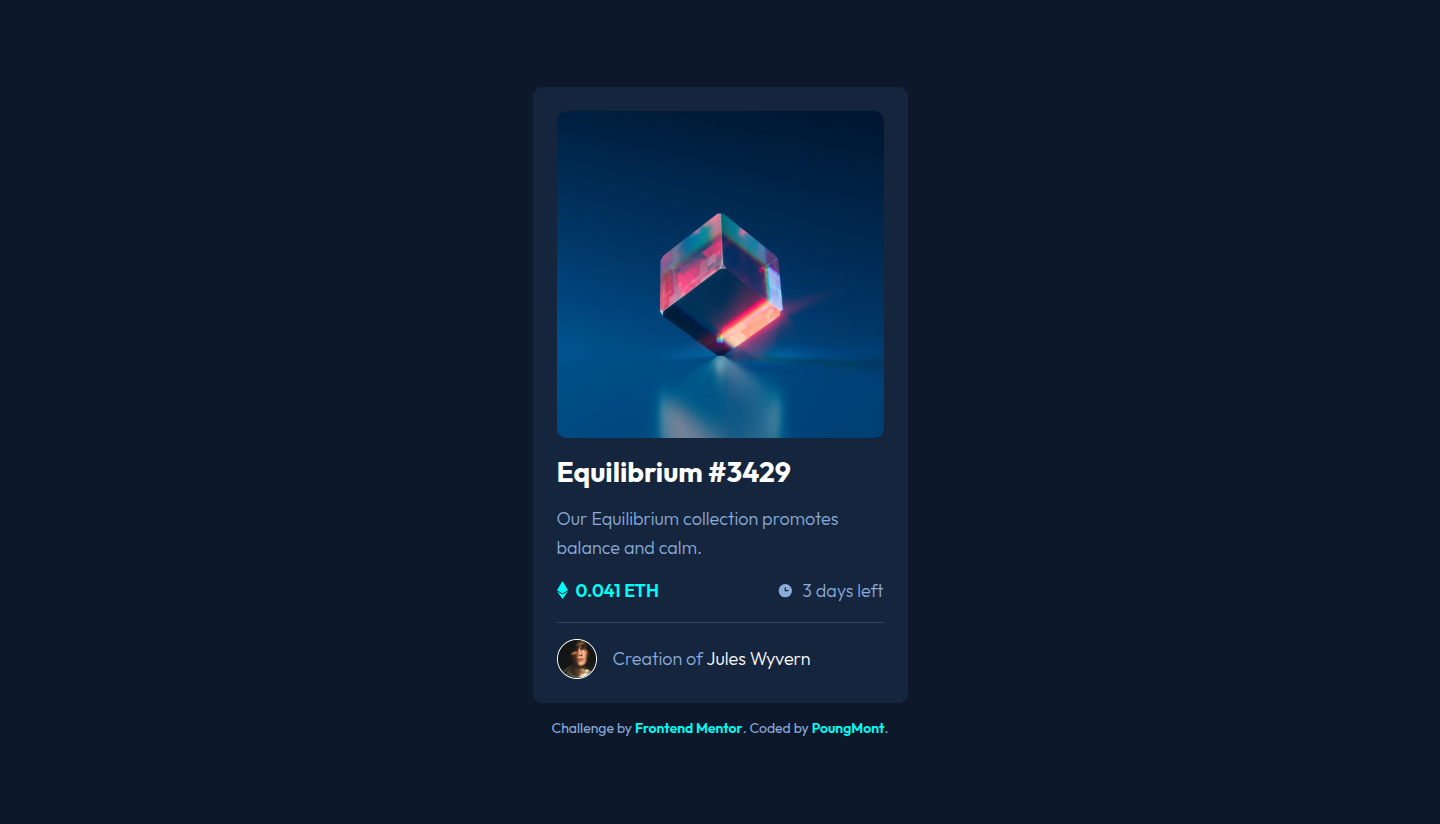
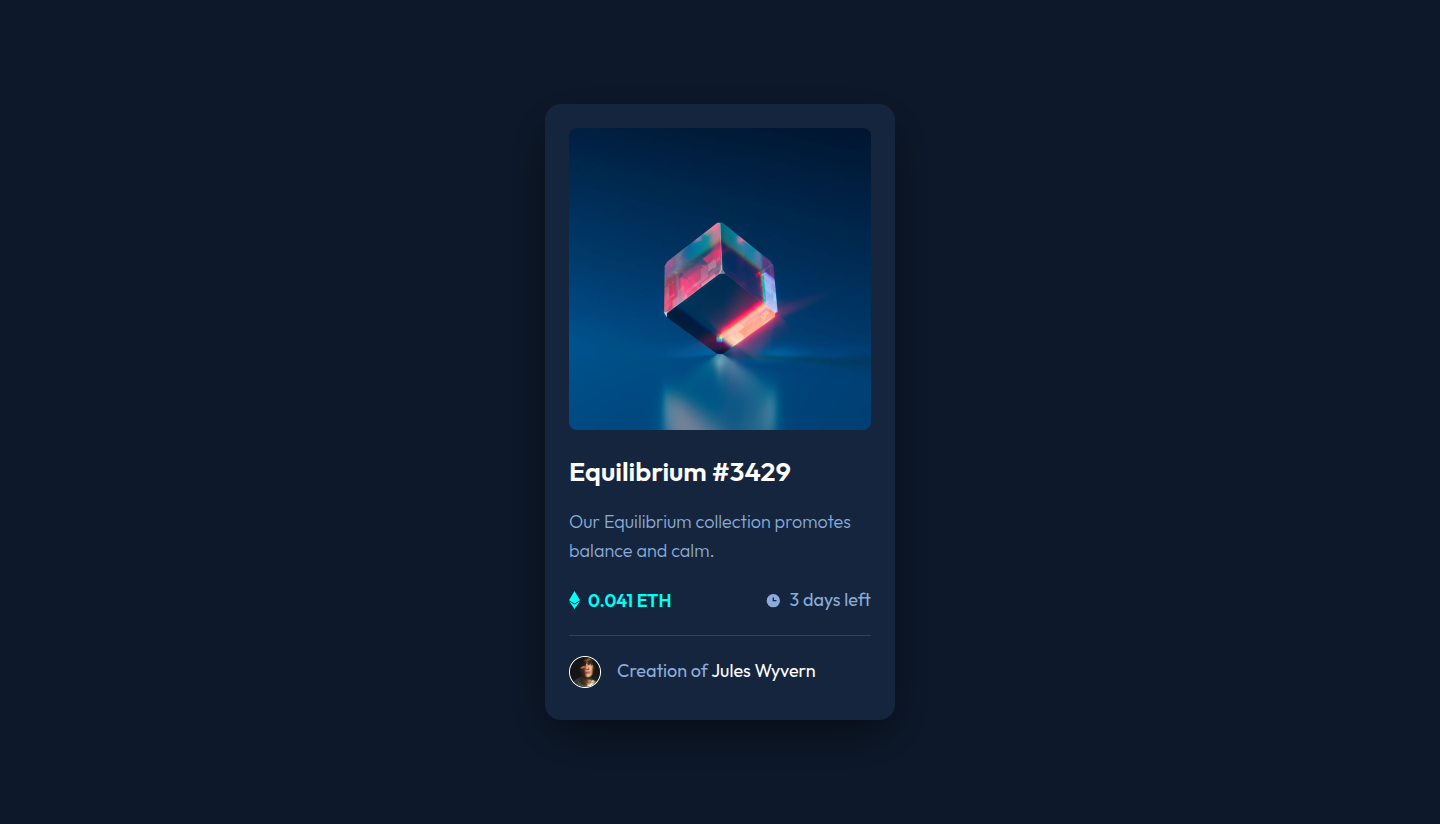
CUBE CSS method

Changed region(s): [[0.3438, 0.182, 0.6562, 0.8495], [0.4375, 0.2427, 0.5625, 0.4248], [0.375, 0.8799, 0.625, 0.9102]]

diff --git a/index.html b/index.html
@@ -9,58 +9,51 @@
       sizes="32x32"
       href="./images/favicon-32x32.png"
     />
-    <title>Frontend Mentor | NFT preview card component</title>
-    <link rel="stylesheet" href="./styles/style.css" />
+    <title>NFT Preview Card Component</title>
+    <link rel="stylesheet" href="styles/style.css" />
+    <link rel="preconnect" href="https://fonts.googleapis.com" />
+    <link rel="preconnect" href="https://fonts.gstatic.com" crossorigin />
+    <link
+      href="https://fonts.googleapis.com/css2?family=Outfit:wght@300;400;600&display=swap"
+      rel="stylesheet"
+    />
   </head>
-  <body class="flex-col jc-center gap-md">
-    <main class="card flex-col padding-sm border-r gap-md">
-      <div class="image__container border-r">
-        <img
-          src="./images/image-equilibrium.jpg"
-          alt="Colorful 3D Equilibrium Image"
-          class="image"
-        />
-        <div class="eye__icon-overlay">
-          <img
-            src="./images/icon-view.svg"
-            alt="Eye view Icon"
-            class="eye__icon"
-          />
+  <body>
+    <main class="main">
+      <article class="card">
+        <div class="card__image">
+          <img src="images/image-equilibrium.jpg" alt="Equilibrium NFT" />
         </div>
-      </div>
-      <h1 class="card__title">Equilibrium #3429</h1>
-      <p class="card__description fw-light">
-        Our Equilibrium collection promotes balance and calm.
-      </p>
-      <div class="card__details flex-row">
-        <div class="card__details-left flex-row gap-sm">
-          <img
-            src="./images/icon-ethereum.svg"
-            alt="Light Blue Ethereum Icon"
-          />
-          <span class="ETH">0.041 ETH</span>
+
+        <div class="card__content flow">
+          <h1 class="text-white fw-bold">Equilibrium #3429</h1>
+          <p class="text-primary fw-light">
+            Our Equilibrium collection promotes balance and calm.
+          </p>
+
+          <div class="flex-group flex-split">
+            <span class="icon-text text-accent fw-bold">
+              <img src="images/icon-ethereum.svg" alt="" /> 0.041 ETH
+            </span>
+            <span class="icon-text text-primary fw-regular">
+              <img src="images/icon-clock.svg" alt="" /> 3 days left
+            </span>
+          </div>
+
+          <div class="card__divider"></div>
+
+          <div class="card__creator flex-group">
+            <img
+              class="creator-avatar"
+              src="images/image-avatar.png"
+              alt="Jules Wyvern avatar"
+            />
+            <p class="text-primary fw-regular">
+              Creation of <span class="text-white">Jules Wyvern</span>
+            </p>
+          </div>
         </div>
-        <div class="card__details-right flex-row gap-sm">
-          <img src="./images/icon-clock.svg" alt="small grey clock icon" />
-          <span class="fw-light">3 days left</span>
-        </div>
-      </div>
-      <div class="card__creator flex-row gap-md">
-        <img
-          src="./images/image-avatar.png"
-          alt="Card Creator Avatar"
-          class="creator__avatar"
-        />
-        <p class="fw-light">
-          Creation of <span class="creator__name">Jules Wyvern</span>
-        </p>
-      </div>
+      </article>
     </main>
-    <footer class="attribution">
-      Challenge by
-      <a href="https://www.frontendmentor.io?ref=challenge" target="_blank"
-        >Frontend Mentor</a
-      >. Coded by <a href="#">PoungMont</a>.
-    </footer>
   </body>
 </html>

diff --git a/styles/blocks.css b/styles/blocks.css
@@ -1,105 +1,45 @@
-.image__container {
-  width: 100%;
-  height: auto;
-  overflow: hidden;
+.card {
+  background-color: var(--clr-neutral-card-bg);
+  border-radius: 1rem;
+  padding: 1.5rem;
+  max-width: 350px;
+  box-shadow: 0 1rem 3rem rgba(0, 0, 0, 0.5);
+}
+
+.card__image {
   position: relative;
-  cursor: pointer;
+  border-radius: 0.5rem;
+  overflow: hidden;
 }
 
-.image {
-  width: 100%;
-  height: auto;
-  display: block;
-  transition: filter 0.3s ease;
-}
-
-.eye__icon-overlay {
+.card__image:hover::after {
+  content: "";
   position: absolute;
-  top: 0;
-  left: 0;
-  width: 100%;
-  height: 100%;
-  background-color: hsla(178, 100%, 50%, 0.5);
-  display: flex;
-  justify-content: center;
-  align-items: center;
-  opacity: 0;
+  inset: 0;
+  background: hsla(178, 100%, 50%, 0.5) url(../images/icon-view.svg) no-repeat
+    center;
+  cursor: pointer;
   transition: opacity 0.3s ease;
 }
 
-.eye__icon {
-  width: 3rem;
-  height: 3rem;
-}
-
-.image__container:hover .eye__icon-overlay {
-  opacity: 1;
-}
-
-.image__container:hover .image {
-  filter: brightness(1.2);
-}
-
-.card__title {
-  color: var(--white);
-  font-size: 1.75rem;
-  width: 100%;
-  transition: all 0.3s ease;
-}
-
-.card__title:hover {
-  color: var(--cyan-400);
+.text-white:hover {
+  color: var(--clr-primary-cyan);
   cursor: pointer;
+  transition: color 0.3s ease;
 }
 
-.card__description {
-  line-height: 1.6;
+.card__content {
+  --flow-space: 1.25rem;
+  padding: 1.5rem 0 0.5rem;
 }
 
-.card__details {
-  width: 100%;
-  justify-content: space-between;
-  padding-bottom: 1.25rem;
-  border-bottom: 1px solid var(--blue-800);
+.card__divider {
+  height: 1px;
+  background-color: var(--clr-neutral-line);
 }
 
-.ETH {
-  color: var(--cyan-400);
-  font-weight: var(--fw-semiBold);
-}
-
-.card__creator {
-  width: 100%;
-}
-
-.creator__avatar {
-  width: 2.5rem;
-  height: 2.5rem;
+.creator-avatar {
+  width: 2rem;
+  border: 1px solid var(--clr-neutral-white);
   border-radius: 50%;
-  border: 1px solid var(--white);
-}
-
-.creator__name {
-  color: var(--white);
-  transition: all 0.3s ease;
-}
-
-.creator__name:hover {
-  color: var(--cyan-400);
-  cursor: pointer;
-}
-
-.attribution {
-  text-align: center;
-  font-size: 0.875rem;
-}
-
-.attribution a {
-  text-decoration: none;
-  font-weight: var(--fw-semiBold);
-  color: var(--cyan-400);
-}
-
-.attribution a:hover {
-  text-decoration: underline;
 }

diff --git a/styles/utilities.css b/styles/utilities.css
@@ -1,34 +1,46 @@
-.padding-sm {
-  padding: 1.5rem;
+/* Text utilities */
+.text-primary {
+  color: var(--clr-primary-soft-blue);
+  line-height: 1.6;
+}
+.text-accent {
+  color: var(--clr-primary-cyan);
+}
+.text-white {
+  color: var(--clr-neutral-white);
 }
 
-.flex-col {
-  display: flex;
-  flex-direction: column;
-  align-items: center;
-}
-
-.flex-row {
-  display: flex;
-  align-items: center;
-}
-
-.jc-center {
-  justify-content: center;
-}
-
-.gap-md {
-  gap: 1rem;
-}
-
-.gap-sm {
-  gap: 0.5rem;
-}
-
-.border-r {
-  border-radius: 0.625rem;
-}
-
+/* Font utilities */
 .fw-light {
   font-weight: var(--fw-light);
+}
+.fw-regular {
+  font-weight: var(--fw-regular);
+}
+.fw-bold {
+  font-weight: var(--fw-bold);
+}
+
+/* Spacing utilities */
+.flow > * + * {
+  margin-top: var(--flow-space, 1rem);
+}
+
+/* Flex utilities */
+.flex-group {
+  display: flex;
+  align-items: center;
+  gap: 1rem;
+  flex-wrap: wrap;
+}
+
+.flex-split {
+  justify-content: space-between;
+  width: 100%;
+}
+
+.icon-text {
+  display: inline-flex;
+  align-items: center;
+  gap: 0.5rem;
 }

diff --git a/styles/base.css b/styles/base.css
@@ -1,33 +1,23 @@
-@import url("https://fonts.googleapis.com/css2?family=Outfit:wght@100..900&display=swap");
-
-* {
+*,
+*::before,
+*::after {
   margin: 0;
   padding: 0;
   box-sizing: border-box;
 }
 
-:root {
-  /* Primary */
-  --blue-500: hsl(215, 51%, 70%);
-  --cyan-400: hsl(178, 100%, 50%);
-
-  /* Neutral */
-  --blue-950: hsl(217, 54%, 11%);
-  --blue-900: hsl(216, 50%, 16%);
-  --blue-800: hsl(215, 32%, 27%);
-  --white: hsl(0, 0%, 100%);
-
-  /* Font  */
-  --ff-outfit: "Outfit", sans-serif;
-  --fw-semiBold: 600;
-  --fw-light: 300;
+body {
+  font-family: var(--ff-primary);
+  font-size: var(--fs-base);
+  background-color: var(--clr-neutral-main-bg);
+  color: var(--clr-primary-soft-blue);
+  min-height: 100vh;
+  display: grid;
+  place-items: center;
+  padding: 1.5rem;
 }
 
-body {
-  font-family: var(--ff-outfit);
-  font-size: 1.125rem;
-  color: var(--blue-500);
-  background-color: var(--blue-950);
-  padding: 1rem 2rem;
-  min-height: 100vh;
+img {
+  max-width: 100%;
+  display: block;
 }

diff --git a/styles/variables.css b/styles/variables.css
@@ -1,0 +1,17 @@
+:root {
+  /* Colors */
+  --clr-primary-soft-blue: hsl(215, 51%, 70%);
+  --clr-primary-cyan: hsl(178, 100%, 50%);
+
+  --clr-neutral-main-bg: hsl(217, 54%, 11%);
+  --clr-neutral-card-bg: hsl(216, 50%, 16%);
+  --clr-neutral-line: hsl(215, 32%, 27%);
+  --clr-neutral-white: hsl(0, 0%, 100%);
+
+  /* Typography */
+  --ff-primary: "Outfit", sans-serif;
+  --fs-base: 1.125rem;
+  --fw-light: 300;
+  --fw-regular: 400;
+  --fw-bold: 600;
+}

diff --git a/styles/style.css b/styles/style.css
@@ -1,4 +1,4 @@
 @import url("base.css");
-@import url("composition.css");
 @import url("blocks.css");
 @import url("utilities.css");
+@import url("variables.css");
